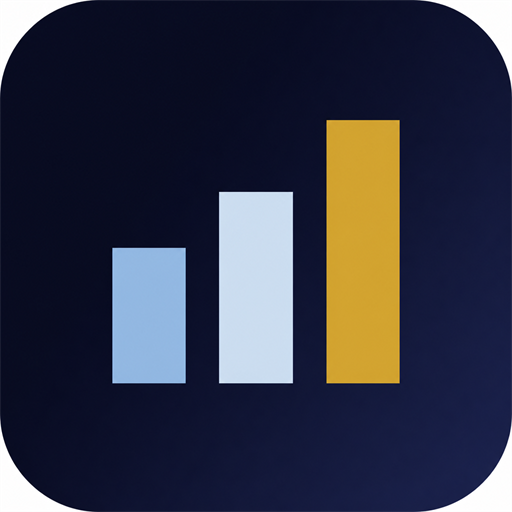
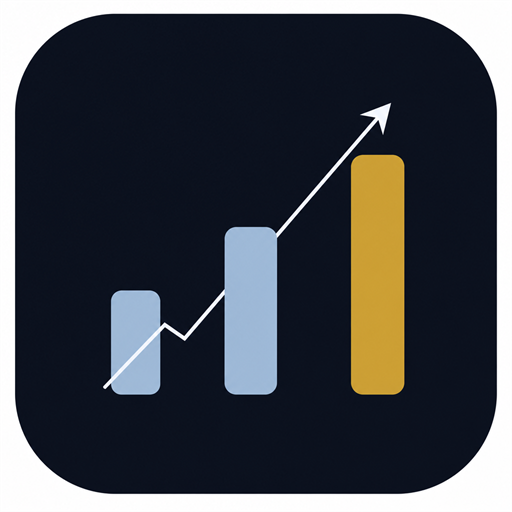
Zigzag ok logosu uygulamaya eklendi; header, hero ve PWA ikonlari guncellendi.

diff --git a/bilanco-analiz.html b/bilanco-analiz.html
@@ -32,9 +32,10 @@
   header{background:linear-gradient(120deg,#0c1022 0%,#141a30 55%,#1a1f3d 100%);
     border-bottom:1px solid var(--line-2)}
   .hd-inner{max-width:1180px;margin:0 auto;padding:20px 28px;display:flex;align-items:center;gap:16px}
-  .logo{width:44px;height:44px;border-radius:12px;background:linear-gradient(140deg,#1b2942,#101626);cursor:pointer;
-    border:1px solid var(--line-2);display:flex;align-items:center;justify-content:center;flex:0 0 auto;
-    box-shadow:0 4px 14px rgba(0,0,0,.4)}
+  .logo{width:44px;height:44px;border-radius:12px;cursor:pointer;overflow:hidden;
+    display:flex;align-items:center;justify-content:center;flex:0 0 auto;
+    box-shadow:0 4px 14px rgba(0,0,0,.4);padding:0;border:none;background:transparent}
+  .logo img{width:100%;height:100%;display:block;object-fit:cover}
   #pwaInstall{display:none;margin-left:8px;padding:7px 12px;border-radius:999px;font-size:12px;font-weight:700;
     background:rgba(79,156,249,.16);border:1px solid rgba(79,156,249,.45);color:var(--accent-2);white-space:nowrap}
   #pwaInstall.show{display:inline-flex;align-items:center;gap:6px}
@@ -69,9 +70,10 @@
 
   /* --- Ana sayfa: büyük arama --- */
   .hero{text-align:center;padding:52px 16px 40px}
-  .hero .hero-logo{display:inline-flex;width:72px;height:72px;border-radius:19px;margin-bottom:18px;
-    background:linear-gradient(140deg,#1b2942,#101626);border:1px solid var(--line-2);
-    align-items:center;justify-content:center;box-shadow:0 8px 26px rgba(0,0,0,.45)}
+  .hero .hero-logo{display:inline-flex;width:88px;height:88px;border-radius:22px;margin-bottom:18px;
+    overflow:hidden;align-items:center;justify-content:center;padding:0;border:none;background:transparent;
+    box-shadow:0 8px 26px rgba(0,0,0,.45)}
+  .hero .hero-logo img{width:100%;height:100%;display:block;object-fit:cover}
   .hero h2{margin:0 0 8px;font-size:27px;font-weight:800;color:#fff;letter-spacing:.2px}
   .hero .hero-sub{color:var(--ink-2);font-size:13.5px;margin-bottom:26px;line-height:1.6}
   .hero-search{display:flex;gap:10px;justify-content:center;align-items:stretch;flex-wrap:wrap;max-width:640px;margin:0 auto}
@@ -382,11 +384,7 @@
 <header>
   <div class="hd-inner">
     <div class="logo" role="button" tabindex="0" title="Ana Sayfa" onclick="switchPage('home')" onkeydown="if(event.key==='Enter'||event.key===' '){event.preventDefault();switchPage('home')}">
-      <svg width="24" height="24" viewBox="0 0 24 24" fill="none" xmlns="http://www.w3.org/2000/svg">
-        <rect x="3"  y="13" width="4" height="8" rx="1" fill="#9cc3e6"/>
-        <rect x="10" y="8"  width="4" height="13" rx="1" fill="#cfe0f0"/>
-        <rect x="17" y="4"  width="4" height="17" rx="1" fill="#c8a23a"/>
-      </svg>
+      <img src="/icons/icon-192.png" width="44" height="44" alt="Bilanço Analiz">
     </div>
     <div>
       <h1>Bilanço Analiz <button type="button" id="pwaInstall" class="no-print" onclick="installPwa()">📲 Yükle</button></h1>
@@ -418,11 +416,7 @@
 
   <div class="hero no-print">
     <div class="hero-logo">
-      <svg width="38" height="38" viewBox="0 0 24 24" fill="none" xmlns="http://www.w3.org/2000/svg">
-        <rect x="3"  y="13" width="4" height="8" rx="1" fill="#9cc3e6"/>
-        <rect x="10" y="8"  width="4" height="13" rx="1" fill="#cfe0f0"/>
-        <rect x="17" y="4"  width="4" height="17" rx="1" fill="#c8a23a"/>
-      </svg>
+      <img src="/icons/icon-512.png" width="88" height="88" alt="Bilanço Analiz">
     </div>
     <h2>Hisse ara, bilançoyu anında analiz et</h2>
     <div class="hero-sub">ABD · Borsa İstanbul · Güney Kore · 15 Avrupa borsası — kodu yaz, borsa otomatik bulunur.<br>Bilanço, oranlar, değerleme, haberler ve analist hedefleri tek ekranda.</div>

diff --git a/sw.js b/sw.js
@@ -1,6 +1,6 @@
 /* Bilanço Analiz — PWA service worker
    Statik kabuğu önbelleğe alır; API köprüleri (/price, /bist, /sec…) her zaman ağdan gelir. */
-const CACHE = 'bilanco-shell-v1';
+const CACHE = 'bilanco-shell-v6';
 const SHELL = [
   '/',
   '/bilanco-analiz.html',
@@ -8,7 +8,8 @@ const SHELL = [
   '/cik-map.js',
   '/manifest.webmanifest',
   '/icons/icon-192.png',
-  '/icons/icon-512.png'
+  '/icons/icon-512.png',
+  '/icons/logo.png'
 ];
 
 self.addEventListener('install', event => {